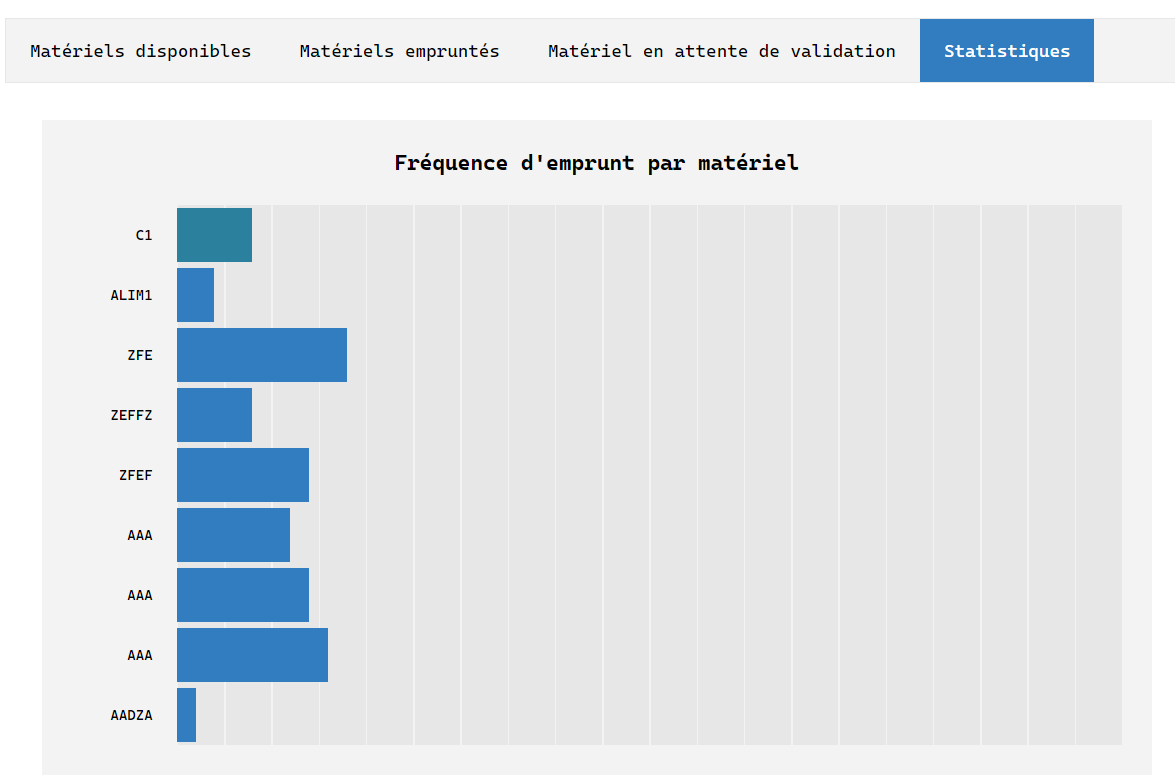
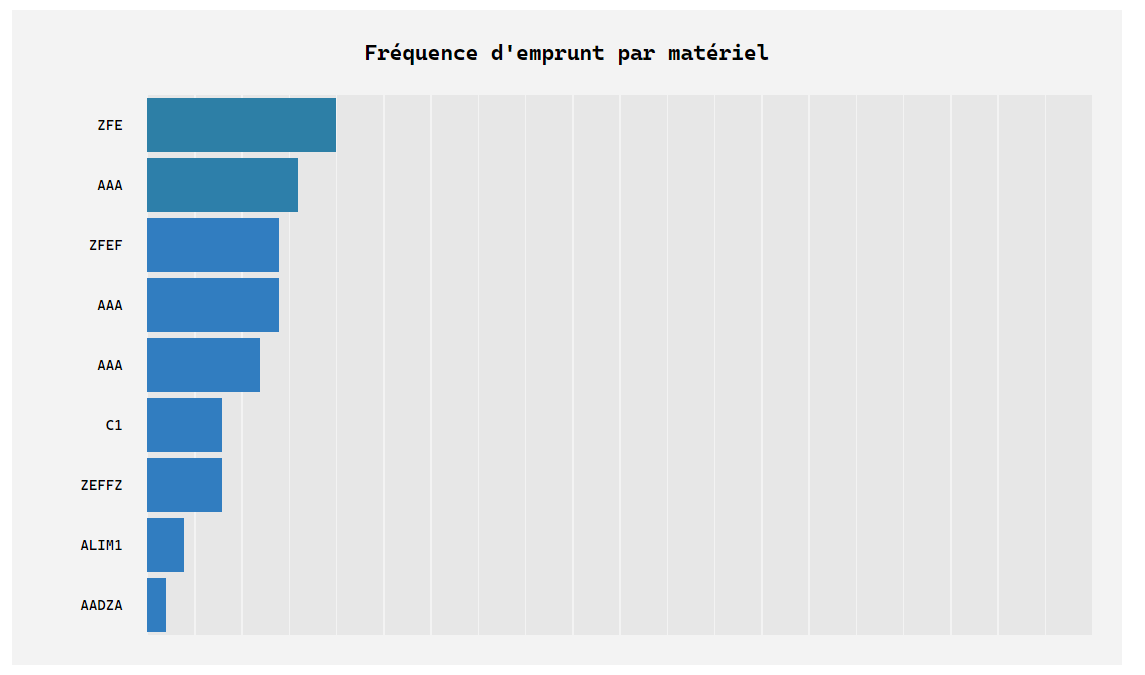
💄 fix stats order

diff --git a/starter/src/main/java/com/SqlClient.java b/starter/src/main/java/com/SqlClient.java
@@ -136,7 +136,7 @@ public class SqlClient extends AbstractVerticle {
     public static CompletableFuture<JsonArray> adminView(Pool pool){
         CompletableFuture<JsonArray> future = new CompletableFuture<>();
         JsonArray result = new JsonArray();
-        pool.query("SELECT * FROM public.tools ORDER BY id ASC")
+        pool.query("SELECT * FROM public.tools ORDER BY counter DESC;")
             .execute()
             .onSuccess(rows -> {
                 for(Row row : rows){
@@ -220,7 +220,7 @@ public class SqlClient extends AbstractVerticle {
     public static CompletableFuture<JsonArray> getHistory(Pool pool){
         CompletableFuture<JsonArray> future = new CompletableFuture<>();
         JsonArray result = new JsonArray();
-        pool.query("SELECT t.id, t.idisep, ROUND(AVG(h.\"returnDate\" - h.\"borrowDate\"), 0) AS avgdays FROM public.history AS h LEFT JOIN public.tools AS t ON t.id = h.toolid GROUP BY t.id, t.idisep")
+        pool.query("SELECT t.id, t.idisep, ROUND(AVG(h.\"returnDate\" - h.\"borrowDate\"), 0) AS avgdays FROM public.history AS h LEFT JOIN public.tools AS t ON t.id = h.toolid GROUP BY t.id, t.idisep ORDER BY avgdays ASC;")
             .execute()
             .onSuccess(rows -> {
                 for(Row row : rows){

diff --git a/README.md b/README.md
@@ -1,5 +1,7 @@
 # GEM LABO PHYSIQUE
 
+## MANUEL D'INSTALLASTION
+
 ## MANUEL D'UTILISATION
 
 ### Rappel du contexte
